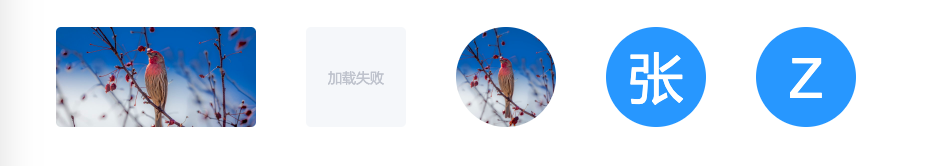
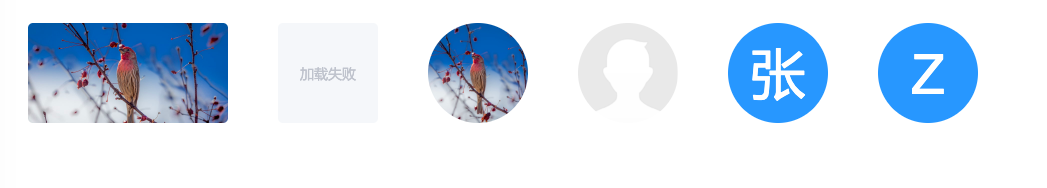
增加defaultSrc 和 customStyle

diff --git a/src/EleImage.vue b/src/EleImage.vue
@@ -5,11 +5,11 @@
     :lazy="computedLazy"
     :referrer-policy="referrerPolicy"
     :scrollContainer="scrollContainer"
-    :src="src"
+    :src="computedSrc"
     :style="styles"
     @error="handleError"
     @load="handleLoad"
-    v-if="src"
+    v-if="computedSrc"
   >
     <template v-slot:placeholder>
       <slot name="placeholder"/>
@@ -36,6 +36,7 @@ export default {
   props: {
     username: String,
     src: String,
+    defaultSrc: String,
     alt: String,
     fit: String,
     lazy: Boolean,
@@ -46,6 +47,7 @@ export default {
     radius: String,
     referrerPolicy: String,
     backgroundColor: String,
+    customStyle: Object,
     scrollContainer: [String, Object],
   },
   components: {
@@ -57,6 +59,9 @@ export default {
   computed: {
     globalParams () {
       return this.$EleImageParams || {}
+    },
+    computedSrc () {
+      return this.src || this.defaultSrc || this.globalParams.defaultSrc
     },
     computedLazy () {
       return this.lazy || this.globalParams.lazy
@@ -97,7 +102,7 @@ export default {
         styles.height = this.computedHeight + 'px'
       }
 
-      if (!this.src) {
+      if (!this.computedSrc) {
         if (this.computedColor) {
           styles.color = this.computedColor
         }
@@ -107,7 +112,7 @@ export default {
         }
       }
 
-      return styles
+      return Object.assign({}, styles, this.customStyle)
     }
   },
   methods: {

diff --git a/example/App.vue b/example/App.vue
@@ -20,9 +20,17 @@
     <e-image
       :size="100"
       class="demo"
+      defaultSrc="https://dwz.cn/QYY2qkts"
+      radius="50%"
+    />
+    <e-image
+      :customStyle="{verticalAlign: 'top'}"
+      :size="100"
+      class="demo"
       username="张超杰"
     />
     <e-image
+      :customStyle="{verticalAlign: 'top'}"
       :size="100"
       class="demo"
       username="zhang"

diff --git a/src/EleImageAvatar.vue b/src/EleImageAvatar.vue
@@ -141,6 +141,6 @@ export default {
 .ele-image--avatar {
   display: inline-block;
   text-align: center;
-  vertical-align: top;
+  vertical-align: middle;
 }
 </style>

diff --git a/README.md b/README.md
@@ -8,8 +8,8 @@
 ## 特点
 
 - 增加 avatar 模式
-- 可全局定义配置(lazy, fit)
-- 参数更简单(size, radius)
+- 可全局定义配置(lazy, fit 等)
+- 参数更简单(size, radius 等)
 - 保留所有 el-image 的特性
 
 !['ele-image'](./public/example.png)
@@ -30,11 +30,12 @@ npm install vue-ele-image --save
 // 全局 (推荐)
 import EleImage from 'vue-ele-image'
 
-// 可以配置全局默认值(配置可选)
+// 可以配置全局默认值(配置中每一项都是可选)
 Vue.use(EleImage, {
   fit: 'cover',
   lazy: true,
   color: '#fff',
+  defaultSrc: 'https://dwz.cn/QYY2qkts',
   backgroundColor: '#409EFF'
 })
 ```
@@ -79,13 +80,15 @@ export default {
 
 ```js
 props: {
-  username: String, // 当src为false时, avatar模式所显示的字符
+  username: String, // 当src不存在时, avatar模式所显示的字符
   color: String, // avatar模式下, 字体颜色
   backgroundColor: String, // avatar模式下, 背景色
   size: Number, // size相当于 width === height === size
   width: Number, // 如果给定width值, 会覆盖size值
   height: Number, // 如果给定height值, 会覆盖size值
   radius: String, // 圆角, 正常模式默认值 5px, 头像模式: 50%
+  defaultSrc: String, // 当src不存在时, 顶替src
+  customStyle: Object, // 自定义样式
   src: String, // 同官网
   alt: String, // 同官网
   fit: String, // 同官网
